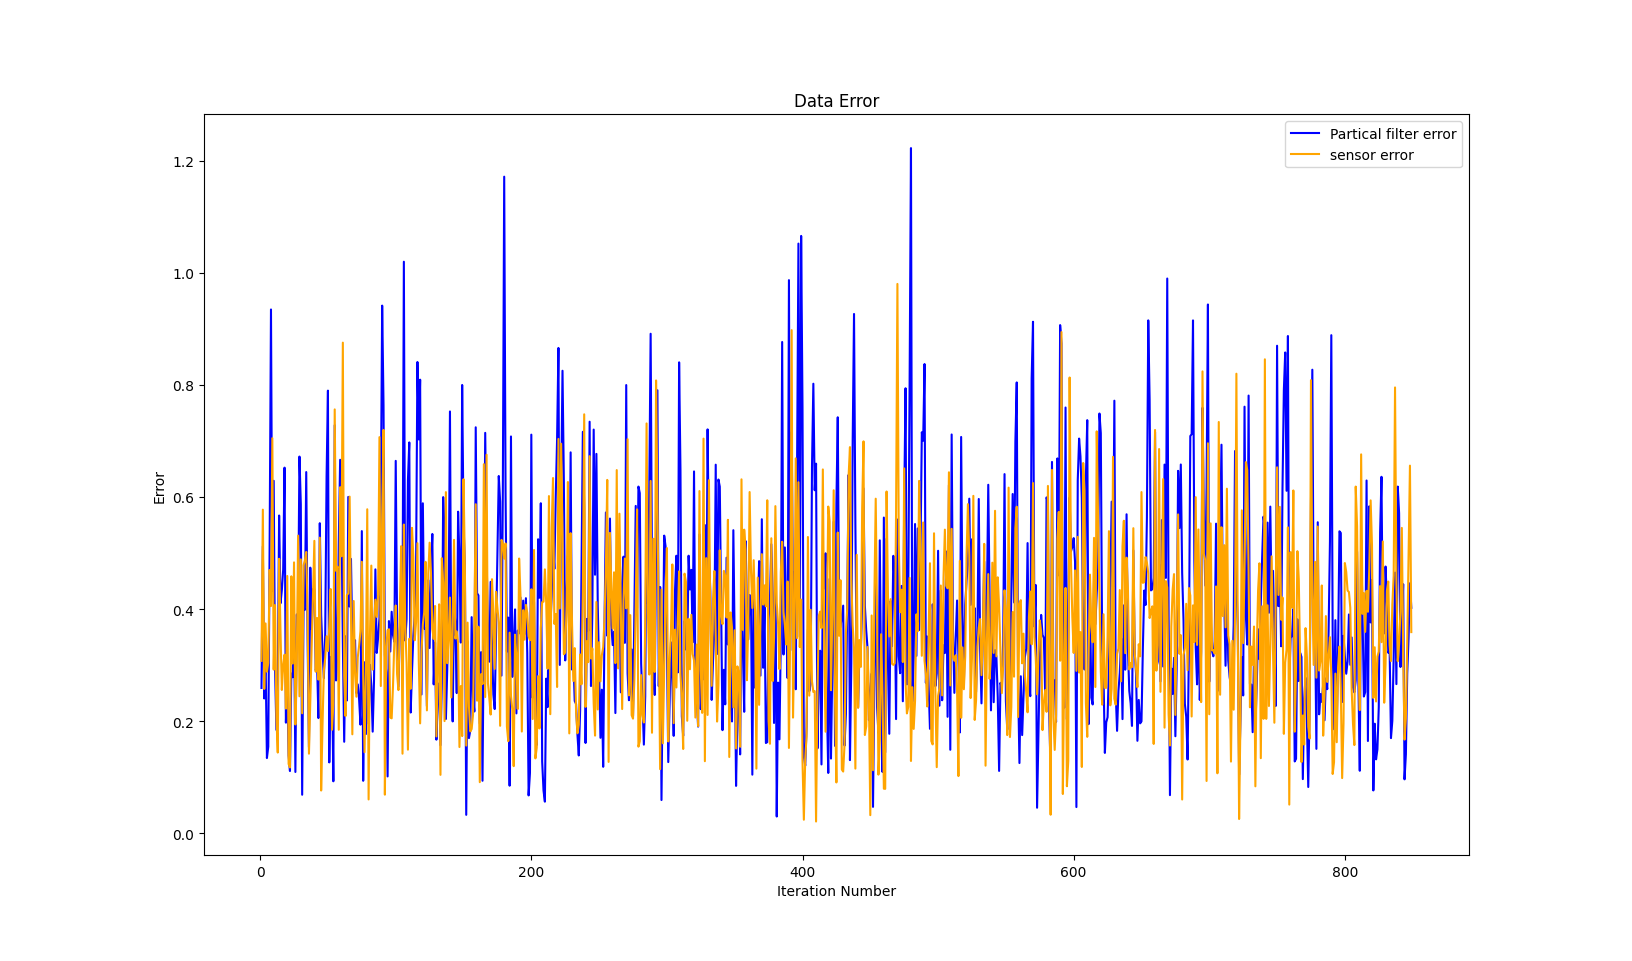
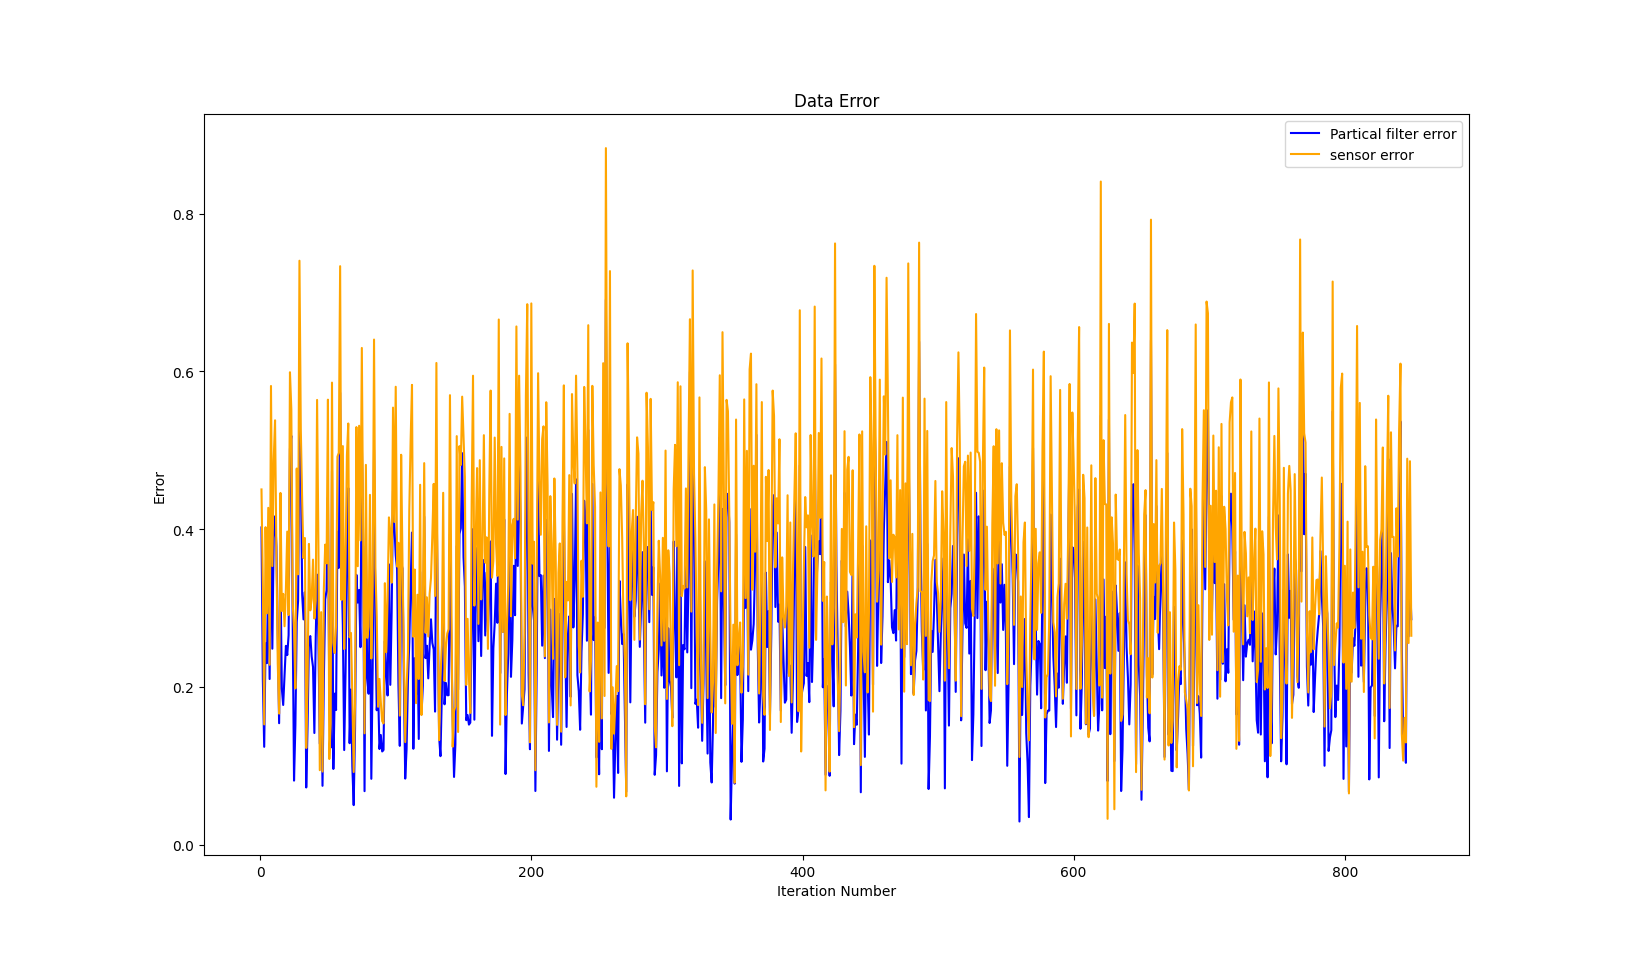
geneate outputs

Changed region(s): [[0.1562, 0.2497, 0.875, 0.8429], [0.0938, 0.3746, 0.125, 0.4058]]

diff --git a/PF.py b/PF.py
@@ -2,6 +2,8 @@ import numpy as np
 import scipy.stats as stats
 from utils import draw_sphere_marker
 
+np.set_printoptions(precision=10)
+
 class ParticleFilter:
     def __init__(self, param: list):
         self.sample_times = param["Sample_time"]
@@ -40,22 +42,21 @@ class ParticleFilter:
             
         self.W /= weights_sum   # normalize
                 
-        if self.count % 10 == 0:
-            # low_variance_resample
-            N = self.sample_times
-            X_resampled = np.zeros_like(self.particles)
-            cum_sum = np.cumsum(self.W)
-            step = 1.0 / N
-            position = np.random.uniform(0, step)
-            i, count = 0, 0
-            for m in range(N):
-                while position > cum_sum[i]:
-                    i += 1
-                X_resampled[m] = self.particles[i]
-                position += step
+        # low_variance_resample
+        N = self.sample_times
+        X_resampled = np.zeros_like(self.particles)
+        cum_sum = np.cumsum(self.W)
+        step = 1.0 / N
+        position = np.random.uniform(0, step)
+        i, count = 0, 0
+        for m in range(N):
+            while position > cum_sum[i]:
+                i += 1
+            X_resampled[m] = self.particles[i]
+            position += step
             
-            self.particles = X_resampled
-            self.W = np.ones(N) / N
+        self.particles = X_resampled
+        self.W = np.ones(N) / N
         
         # draw sampling particals
         if (self.count - 1) % 80 == 0 and draw:

diff --git a/main.py b/main.py
@@ -13,14 +13,15 @@ from models import sensor_model
 import matplotlib.pyplot as plt
 from matplotlib.patches import Ellipse
 
+np.set_printoptions(precision=20)
 
 param = {
     'dt': 0.1,
     'A': np.eye(3),
     'B': np.eye(3) * 0.1,
     'C': np.eye(3),
-    'Q': np.diag([0.1, 0.1, 0.1]),    # sensor noise
-    'R': np.diag([0.1, 0.1, 0.1]),    # motion noise
+    'Q': np.diag([0.05, 0.05, 0.05]),    # sensor noise
+    'R': np.diag([0.05, 0.05, 0.05]),    # motion noise
     'Sample_time': 500,
     'Sample_cov': np.diag([0.2, 0.2, 0.2])   # covariance of initial sampling
 }
@@ -89,7 +90,7 @@ def main(filter="KF"):
         draw_path()
         ground = path[:, :2].copy()
     
-        print("Kalman Filter running: expected 10s.")
+        print("Kalman Filter running: expected less than 10s.")
         
         # initialize covariance plot
         if plot_cov:
@@ -185,7 +186,7 @@ def main(filter="KF"):
         path = get_path()
         draw_path()
         ground = path[:, :2].copy()
-        print("Particle Filter running: expected 30s.")
+        print("Particle Filter running: expected less than 40s.")
         
         start_time = time.time()
         
@@ -230,6 +231,8 @@ def main(filter="KF"):
     N = len(kf_err)
     num = list(range(1, N+1))
     plot_compare(num, kf_err, pf_err, kf_estimation, pf_estimation, ground)
+    print("KF error mean: ", np.mean(kf_err))
+    print("PF error mean: ", np.mean(pf_err))
 
 
 if __name__ == '__main__':

diff --git a/demo.py b/demo.py
@@ -1,5 +1,3 @@
 import main
 
 main(filter="KF")
-
-main(filter="PF")
